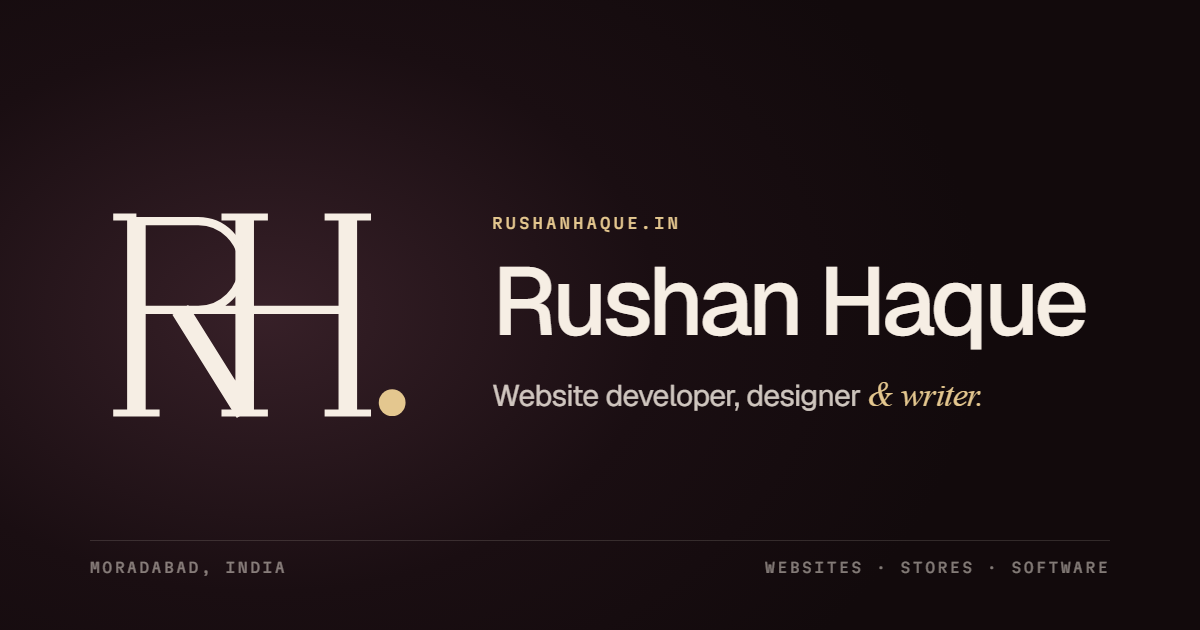
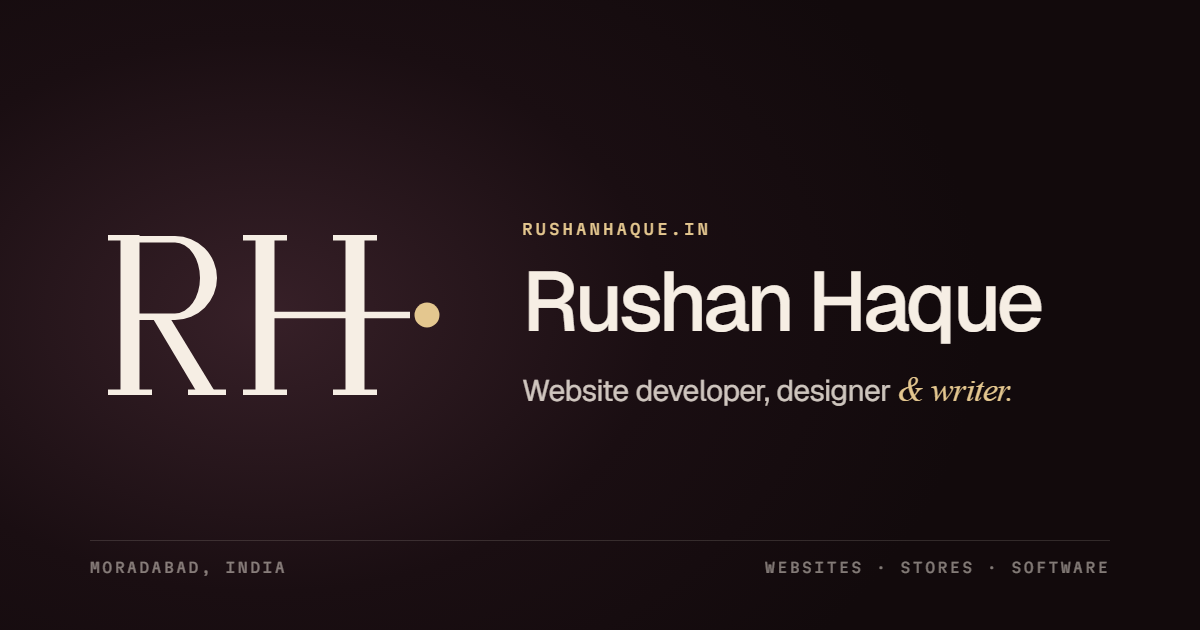
A new RH mark: two letters apart, the H's bar drawn out to the light
The ligature, where R and H shared a stem and crowded each other, is
replaced. The letters are cut like a high-contrast Roman and stand apart;
the R's bowl swells at its right like a pen stroke, and the H's crossbar
runs on past the letter to the brass full stop. In the header it is inked
in stroke by stroke and the bar draws out to the dot, which lights; under
the pointer the line is drawn out again. Favicon, icons and share image
are regenerated from the same drawing.

diff --git a/src/styles/components.css b/src/styles/components.css
@@ -45,29 +45,30 @@ a:hover .roll__chars > span, button:hover .roll__chars > span { transform: trans
 .fo.is-solid::before { opacity: 1; }
 .fo__bar { position: relative; display: flex; align-items: center; justify-content: space-between; gap: 16px; height: calc(64px + env(safe-area-inset-top, 0px)); padding: env(safe-area-inset-top, 0px) var(--pad) 0; }
 
-/* The mark alone, RH. It is inked in as the page opens, the way a pen draws it: the stems, then
-   the hairlines, then the serifs, and last the brass full stop. Under the pointer it is drawn
-   again and its full stop warms; past the cover it settles a size smaller. */
+/* The mark alone, RH. It is inked in as the page opens, the way a pen draws it: the stems, the
+   R's bowl and leg, the hairlines and serifs, and last the H's crossbar running out to the brass
+   full stop, which then lights. Under the pointer the line is drawn out to the light again;
+   past the cover the mark settles a size smaller. */
 .fo__mark { position: relative; z-index: 1; display: inline-flex; align-items: center; min-height: 44px; }
-.fo__mark .mark { flex: none; display: block; transform-origin: 0 50%; transition: scale 0.8s var(--ease); }
-.fo.is-folded .fo__mark .mark { scale: 0.86; }
+.fo__mark .mark { flex: none; display: block; overflow: visible; transform-origin: 0 50%; transition: scale 0.8s var(--ease); }
+.fo.is-folded .fo__mark .mark { scale: 0.88; }
 .fo .mark__dot { fill: var(--fo-dot); transform-box: fill-box; transform-origin: center; transition: filter 0.6s var(--ease); }
-.fo .mark path { stroke-dasharray: 1; stroke-dashoffset: 0; }
-.fo .mark__stems { animation: markInk 1.1s var(--ease-silk) 0.15s both; }
-.fo .mark__hair { animation: markInk 0.9s var(--ease-silk) 0.55s both; }
-.fo .mark__serifs { animation: markInk 0.7s var(--ease-silk) 0.85s both; }
-.fo .mark__dot { animation: markDot 0.7s var(--ease) 1.2s both; }
+.fo .mark g path[pathLength] { stroke-dasharray: 1; stroke-dashoffset: 0; }
+.fo .mark__stems { animation: markInk 0.9s var(--ease-silk) 0.15s both; }
+.fo .mark__body { animation: markFill 0.8s var(--ease) 0.6s both; }
+.fo .mark__hair, .fo .mark__serifs { animation: markInk 0.7s var(--ease-silk) 0.75s both; }
+.fo .mark__reach { animation: markInk 0.8s var(--ease-silk) 1.05s both; }
+.fo .mark__dot { animation: markDot 0.7s var(--ease) 1.65s both; }
 @media (hover: hover) {
-  .fo__mark:is(:hover, :focus-visible) .mark__stems { animation: markRedraw 0.9s var(--ease-silk) both; }
-  .fo__mark:is(:hover, :focus-visible) .mark__hair { animation: markRedraw 0.75s var(--ease-silk) 0.25s both; }
-  .fo__mark:is(:hover, :focus-visible) .mark__serifs { animation: markRedraw 0.6s var(--ease-silk) 0.45s both; }
-  .fo__mark:is(:hover, :focus-visible) .mark__dot { animation: markDotAgain 0.7s var(--ease) 0.7s both; filter: drop-shadow(0 0 4px rgba(217, 185, 126, 0.85)); }
+  .fo__mark:is(:hover, :focus-visible) .mark__reach { animation: markRedraw 0.75s var(--ease-silk) both; }
+  .fo__mark:is(:hover, :focus-visible) .mark__dot { animation: markDotAgain 0.7s var(--ease) 0.55s both; filter: drop-shadow(0 0 5px rgba(217, 185, 126, 0.9)); }
 }
 @keyframes markInk { from { stroke-dashoffset: 1; } to { stroke-dashoffset: 0; } }
 @keyframes markRedraw { from { stroke-dashoffset: 1; } to { stroke-dashoffset: 0; } }
-@keyframes markDot { from { scale: 0; } 60% { scale: 1.5; } to { scale: 1; } }
-@keyframes markDotAgain { from { scale: 0; } 60% { scale: 1.5; } to { scale: 1; } }
-@media (prefers-reduced-motion: reduce) { .fo .mark path, .fo .mark__dot { animation: none !important; } }
+@keyframes markFill { from { opacity: 0; } }
+@keyframes markDot { from { scale: 0; } 60% { scale: 1.6; } to { scale: 1; } }
+@keyframes markDotAgain { from { scale: 0; } 60% { scale: 1.6; } to { scale: 1; } }
+@media (prefers-reduced-motion: reduce) { .fo .mark path, .fo .mark g, .fo .mark__dot { animation: none !important; } }
 .fo__head { position: absolute; left: 50%; top: 50%; translate: -50% -50%; width: max-content; max-width: calc(100% - 2 * 400px); margin: 0; pointer-events: none; }
 .fo__roll { position: relative; display: block; height: 1.6em; overflow: hidden; font-family: var(--serif); font-style: italic; font-size: 16px; line-height: 1.6; letter-spacing: -0.005em; }
 .fo__line { display: block; overflow: hidden; text-overflow: ellipsis; white-space: nowrap; text-align: center; }

diff --git a/src/components/Logo.jsx b/src/components/Logo.jsx
@@ -1,22 +1,31 @@
 /**
  * The RH mark (see scripts/brand.mjs, which renders the favicon, icons and share image from
- * the same drawing). R and H as one ligature: the R's bowl rounds into the stem both letters
- * share, its leg lands at that stem's foot, and one hairline is the bowl's close and the H's
- * crossbar. Thick verticals, hairline curves and bars, and a brass full stop: the point of
- * light. The strokes take the text colour; at small sizes they are drawn a little heavier.
+ * the same drawing). Two letters cut like a high-contrast Roman: thick stems, hairline bars and
+ * serifs, the R's bowl swelling at its right as a pen stroke does. They stand apart, and the
+ * H's crossbar runs on past the letter to a brass full stop: a line drawn out to the point of
+ * light the site opens on (Rushan: light). The ink takes the text colour; at small sizes the
+ * strokes are drawn a little heavier. `size` is the height; the mark is half as wide again.
  */
 export default function Mark({ size = 30, className = '', title }) {
   const small = size < 40
-  const thick = small ? 4.6 : 3.6
-  const thin = small ? 2.3 : 1.6
+  const T = small ? 4.6 : 3.8
+  const t = small ? 1.9 : 1.3
+  const s = t * 0.85
+  const top = 8 + s / 2
+  const base = 40 - s / 2
   return (
-    <svg className={`mark ${className}`} width={size} height={size} viewBox="0 0 64 64" fill="none" role={title ? 'img' : undefined} aria-label={title} aria-hidden={title ? undefined : true}>
-      <g stroke="currentColor" strokeLinecap="butt" strokeLinejoin="miter">
-        <path className="mark__stems" pathLength="1" d="M9 13V51M30 13V51M50 13V51M17.5 31L30 51" strokeWidth={thick} />
-        <path className="mark__hair" pathLength="1" d="M9 13.8H21A8.6 8.6 0 0 1 21 31M9 31H50" strokeWidth={thin} />
-        <path className="mark__serifs" pathLength="1" d="M4.5 51H13.5M25.5 51H34.5M45.5 51H54.5M4.5 13H9M25.5 13H34.5M45.5 13H54.5" strokeWidth={thin * 0.85} />
+    <svg className={`mark ${className}`} width={size * 1.5} height={size} viewBox="0 0 72 48" fill="none" role={title ? 'img' : undefined} aria-label={title} aria-hidden={title ? undefined : true}>
+      <g className="mark__body" fill="currentColor">
+        <path d="M17 8.2A8.4 8.4 0 0 1 17 25L17 23.7A5 7.1 0 0 0 17 9.5Z" />
+        <path d="M12.4 24.4L15.9 24.4L25.4 40L21.7 40Z" />
       </g>
-      <circle className="mark__dot" cx="58.6" cy="49" r="2.6" />
+      <g stroke="currentColor" strokeLinecap="butt">
+        <path className="mark__stems" pathLength="1" d="M8 8V40M35 8V40M53 8V40" strokeWidth={T} />
+        <path className="mark__hair" pathLength="1" d="M8 8.85H17M8 24.35H17" strokeWidth={t} />
+        <path className="mark__serifs" pathLength="1" d={`M3.6 ${top}H8M3.6 ${base}H12.4M19.6 ${base}H27.2M30.6 ${top}H39.4M48.6 ${top}H57.4M30.6 ${base}H39.4M48.6 ${base}H57.4`} strokeWidth={s} />
+        <path className="mark__reach" pathLength="1" d="M35 24H64" strokeWidth={t} />
+      </g>
+      <circle className="mark__dot" cx="67.4" cy="24" r={small ? 3 : 2.5} />
     </svg>
   )
 }

diff --git a/src/sections/Profile.jsx b/src/sections/Profile.jsx
@@ -33,7 +33,7 @@ export default function Profile() {
         <Head n="09" label="Who I am" title={<em>About</em>} lede="A developer and writer from Moradabad, working with businesses in India and abroad." />
         <div className="pro__dossier">
           <aside className="pro__card" data-spot>
-            <span className="pro__mark"><Mark size={44} /></span>
+            <span className="pro__mark"><Mark size={40} /></span>
             <div className="pro__who">
               <p className="pro__sig">Rushan <em>Haque</em></p>
               <p className="pro__role">{site.role}</p>

diff --git a/src/components/Header.jsx b/src/components/Header.jsx
@@ -119,7 +119,7 @@ export default function Header() {
       <header ref={root} className={`fo ${solid ? 'is-solid' : ''} ${folded ? 'is-folded' : ''}`} data-tone={tone}>
         <div className="fo__bar">
           <TLink to="/" className="fo__mark" label="Index" aria-label={`${site.name}, home`}>
-            <Mark size={36} />
+            <Mark size={30} />
           </TLink>
 
           <p className="fo__head" aria-live="polite">
